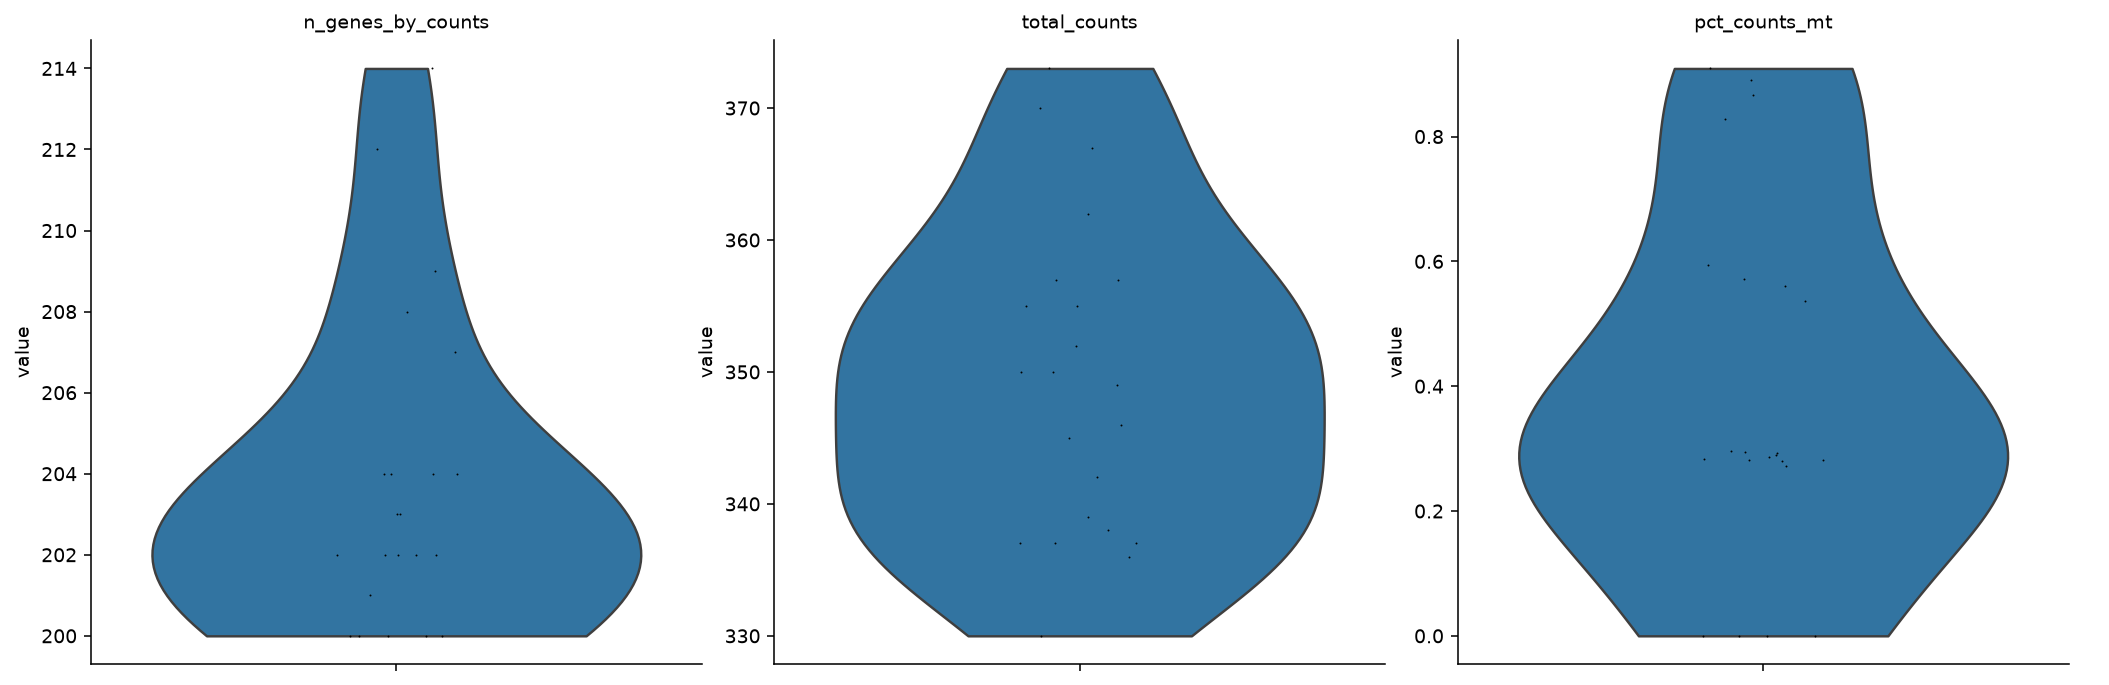
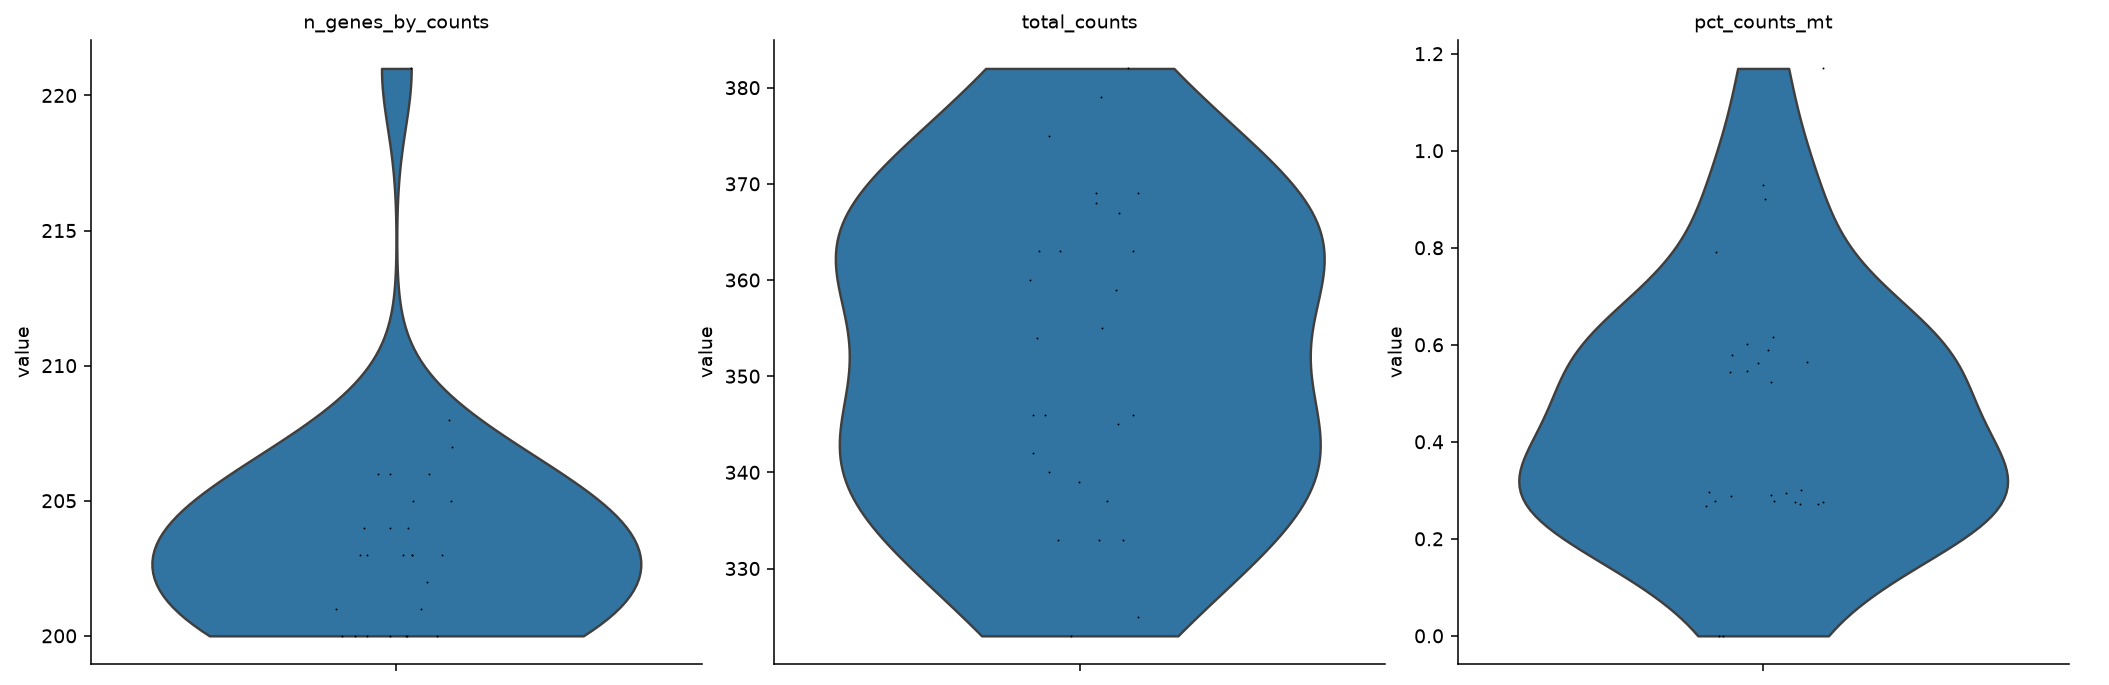
analysis: add sample QC results

diff --git a/output/qc/qc_report.md b/output/qc/qc_report.md
@@ -2,7 +2,7 @@
 
 - 输入细胞数：120
 - 输入基因数：300
-- 输出细胞数：22
+- 输出细胞数：27
 - 输出基因数：290
 - 过滤参数：min_genes >= 200，min_cells >= 3，线粒体比例 <= 20.0%
 
